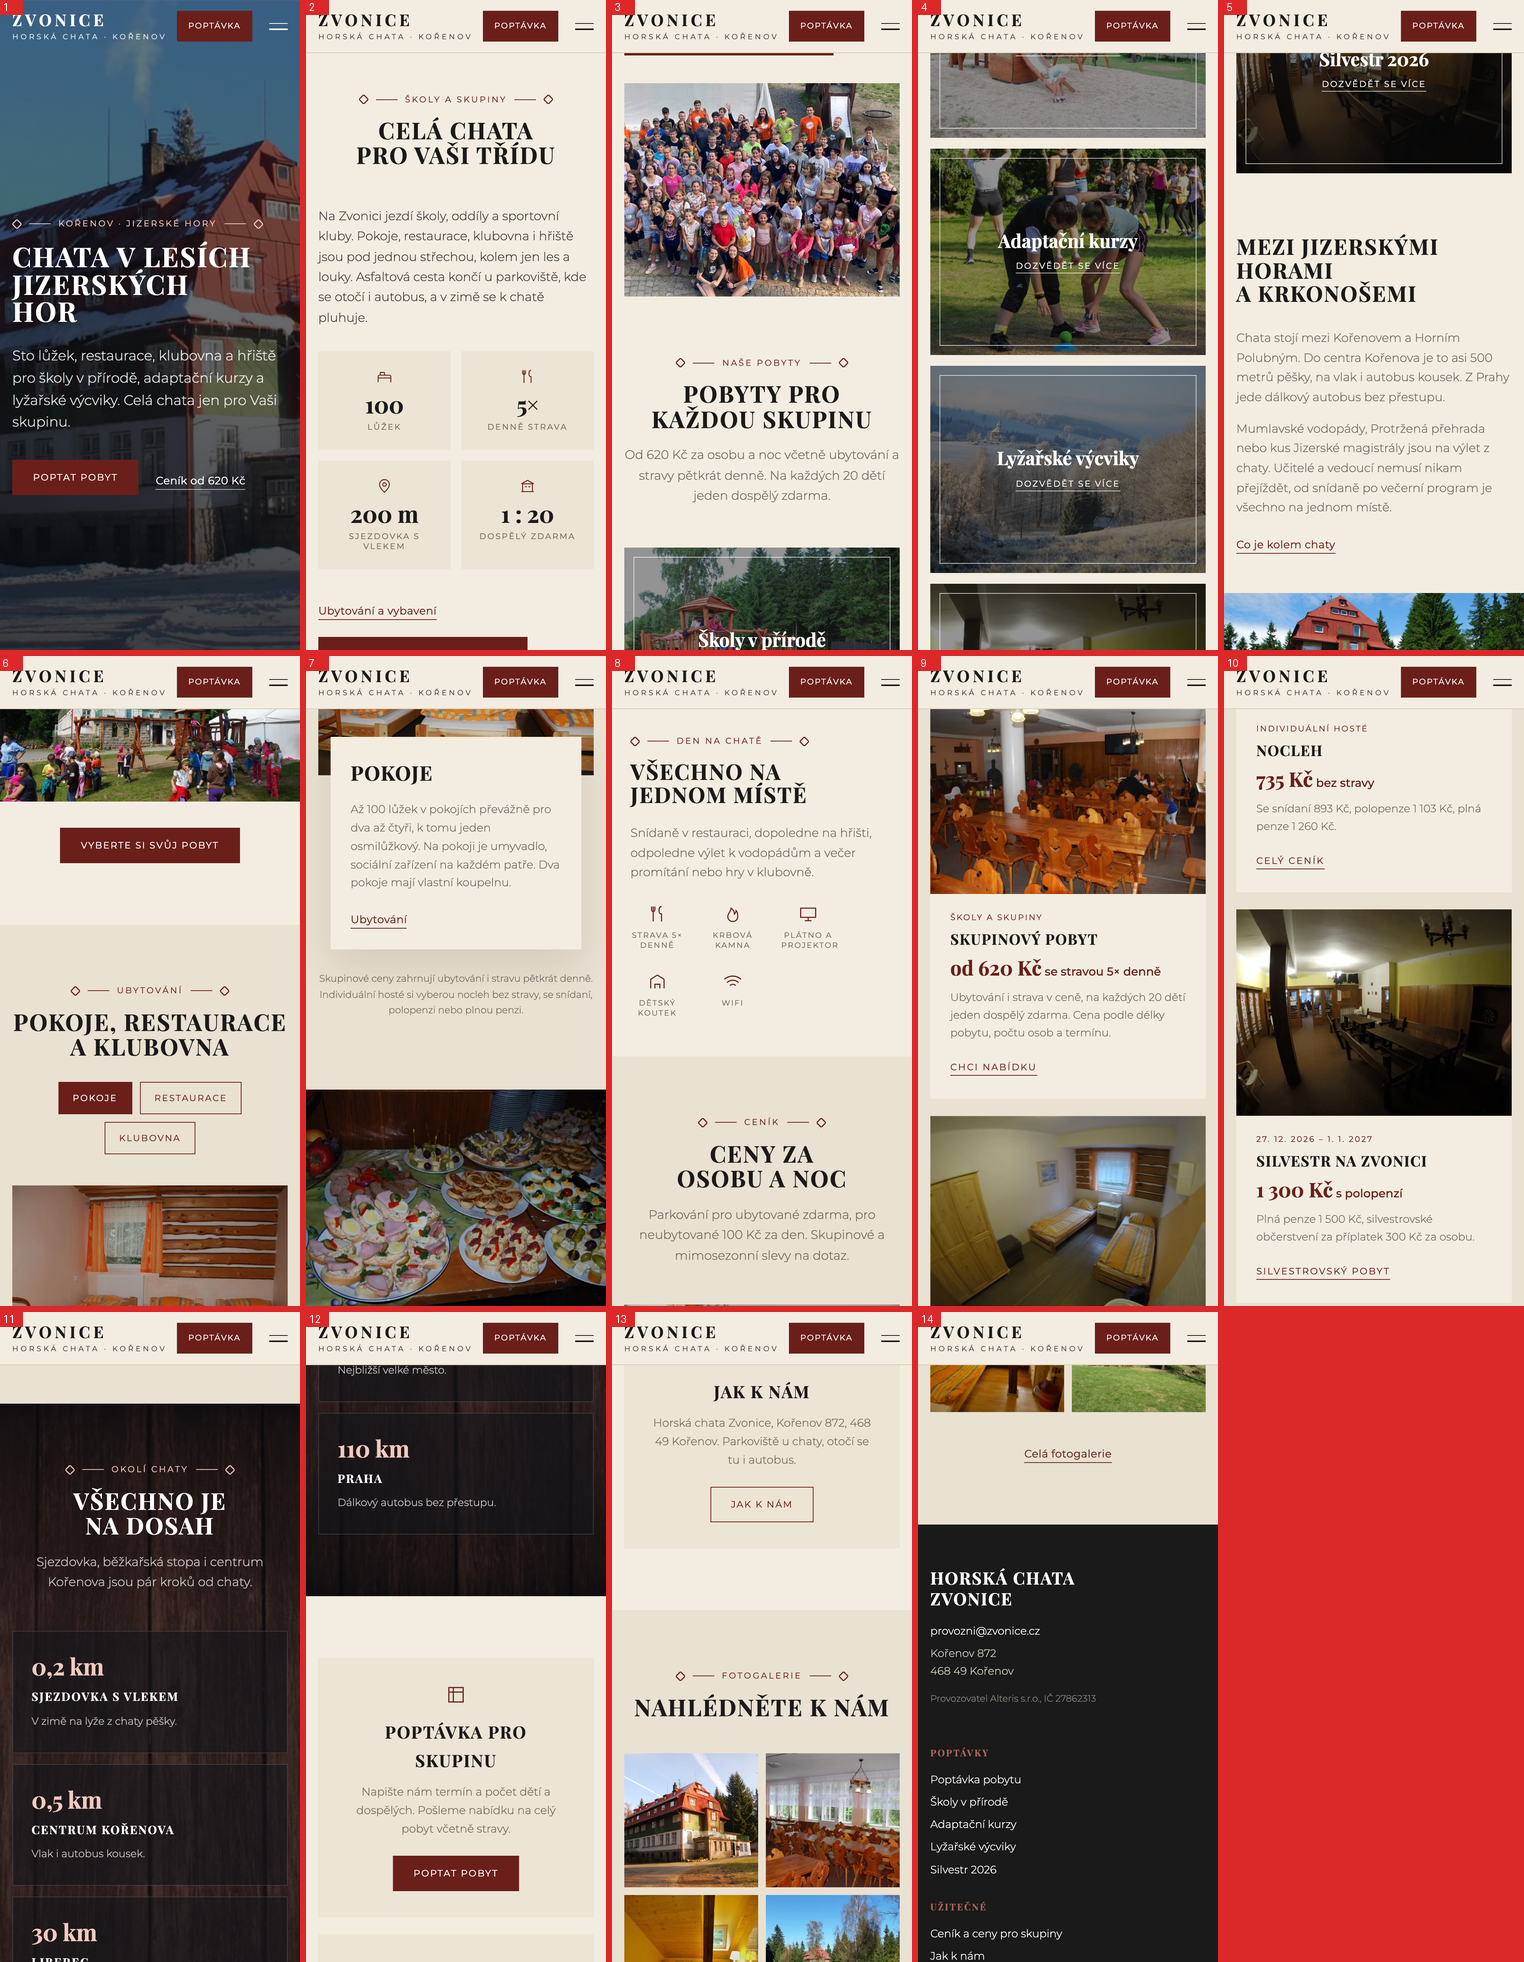
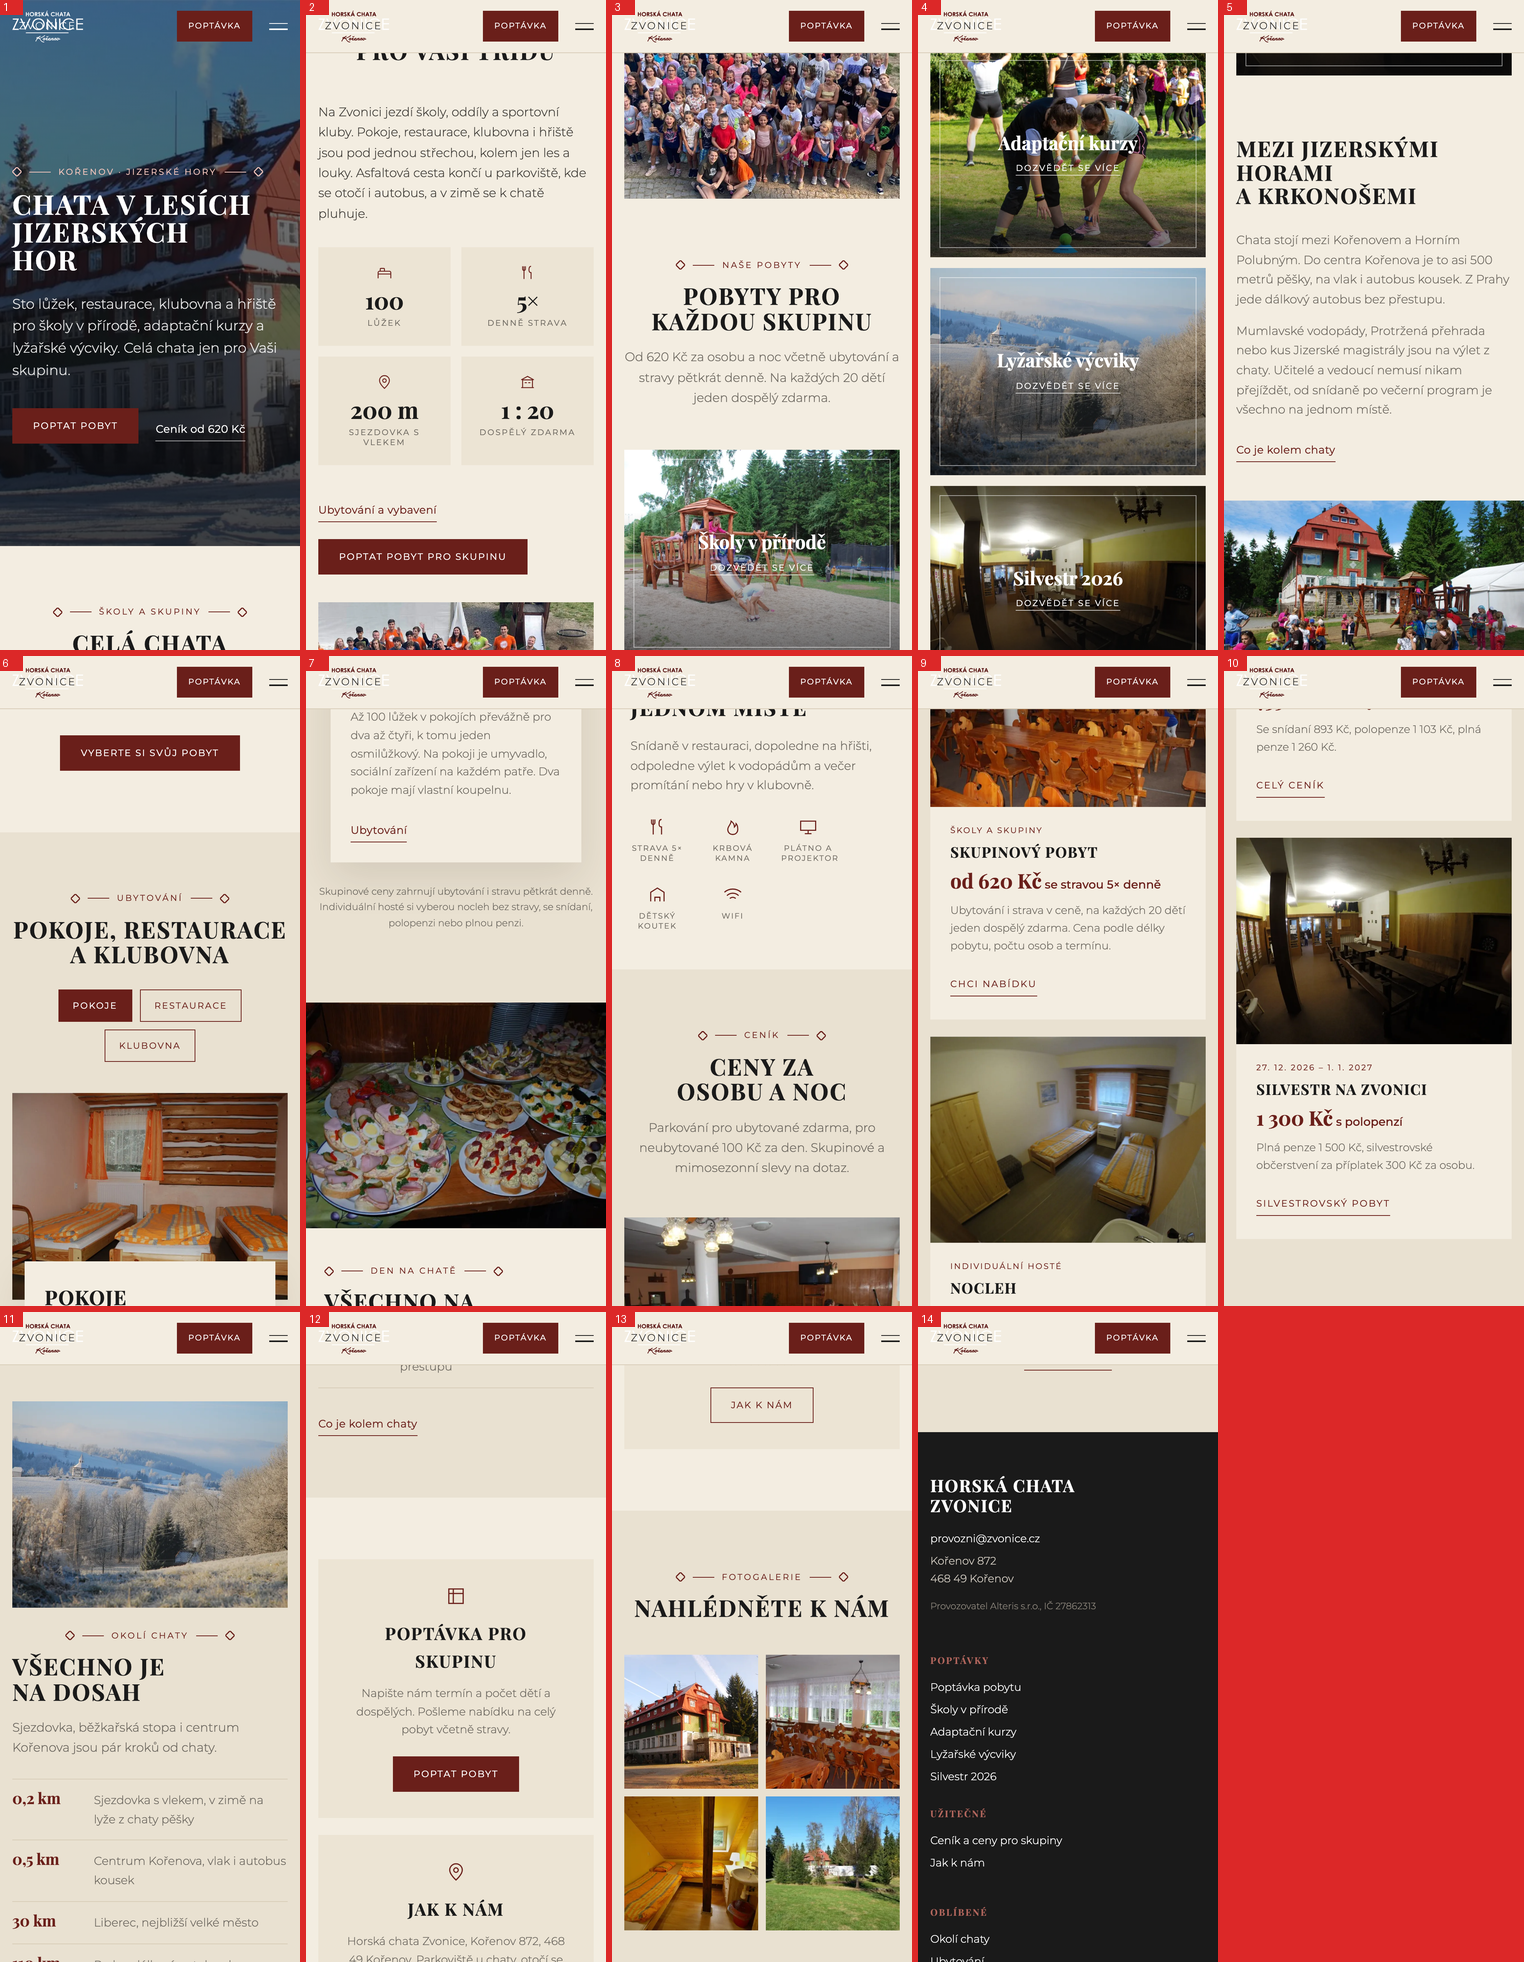
Aktualizace webu 2026-11-09 11:10

diff --git a/static/css/style.css b/static/css/style.css
@@ -311,3 +311,5 @@ h1,h2,h3{font-family:var(--serif);font-weight:700;color:var(--tma);margin:0}
 .vzdal b{font:700 20px/1 var(--serif);color:var(--akcent)}
 .vzdal span{font-size:15px;color:var(--tlum)}
 @media (max-width:900px){.okoli{grid-template-columns:1fr}}
+.pata a{display:inline-flex;align-items:center;min-height:40px}
+.pata li{margin:0}
